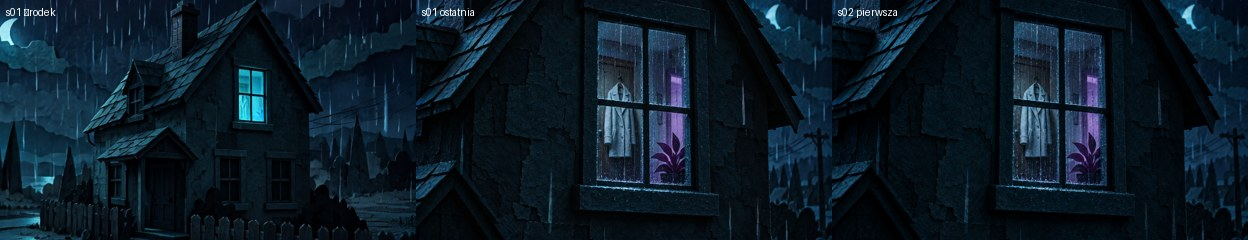
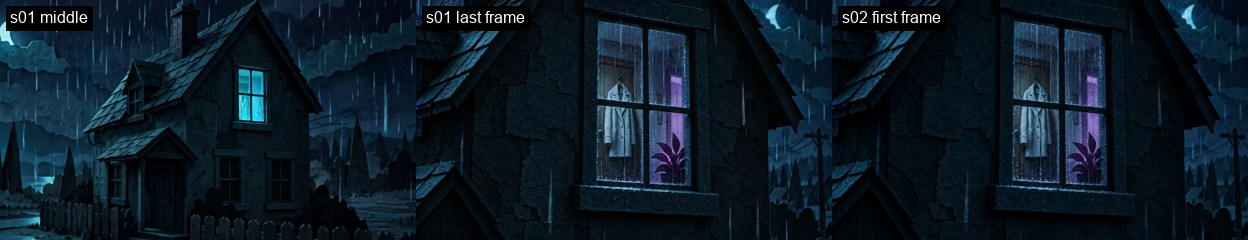
Pages: English screenshots and labels

Changed region(s): [[0.3125, 0.0, 0.4375, 0.1458], [0.0, 0.0, 0.0938, 0.1458], [0.6562, 0.0292, 0.7812, 0.1458]]

diff --git a/site/index.html b/site/index.html
@@ -225,7 +225,7 @@
     <div class="head">
       <div><div class="eyebrow">The studio</div><h2 style="margin-top:14px">A studio<br>for <em>the whole film</em>.</h2></div>
       <p>Every project lives in one place: the song on a timeline, the shots, the pictures and the finished video.
-        Change any shot, keep the rest. (The interface is in Polish for now.)</p>
+        Change any shot, keep the rest.</p>
     </div>
     <figure style="margin:0 0 18px">
       <div class="figure"><img src="assets/ui-timeline.jpg" alt="Timeline with the waveform, beats, sections, shots and lyrics"></div>
